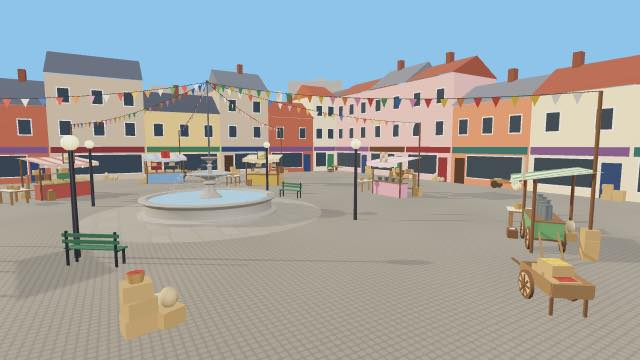
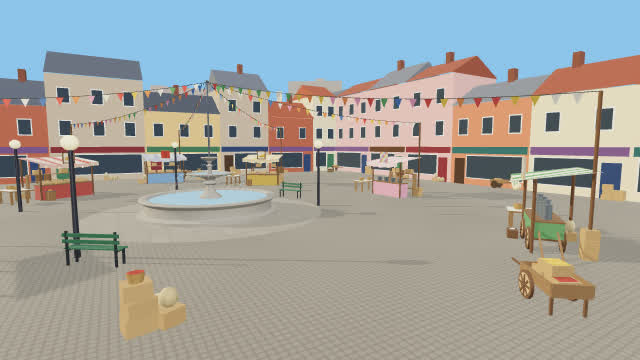
Market fix wave: the place card re-made with the moved lamp posts, and the film's baker view from out in front (the north-west post stood at its old eye)

diff --git a/src/world/marketpilot.js b/src/world/marketpilot.js
@@ -189,8 +189,10 @@ const creepIn = (id) => { const s = stallById(id); return at(id, s.w / 2 + 0.5, 
 const munchSpot = (id) => { const s = stallById(id); return at(id, s.w / 2 + 1.3, s.d / 2 + 1.8); };
 const steps = (list) => freeze(list.map(freeze));
 const BAKER = stallById('baker');
-// the baker's view: out on the hide's side, the counter and her walk in in one frame
-const BAKER_VIEW = freeze({ stall: 'baker', eye: freeze([BAKER.w / 2 + 2.9, BAKER.d / 2 + 3.4, 2.2]), at: freeze([-0.4, BAKER.d / 2 + 0.4]) });
+// the baker's view: from out in front, a little off the middle on the side
+// she walks in from, her walk in, the counter and her dash to the hide in one
+// frame (the north-west lamp post, MARKET_LAMPS, off to the right, not in the way)
+const BAKER_VIEW = freeze({ stall: 'baker', eye: freeze([-1.0, BAKER.d / 2 + 7.5, 2.6]), at: freeze([-0.4, BAKER.d / 2 + 0.4]) });
 const CHEESE = stallById('cheese');
 export const MARKET_TOURS = freeze({
   // From the spawn the café crumbs; the fishmonger's hide, the bubble, the creep
